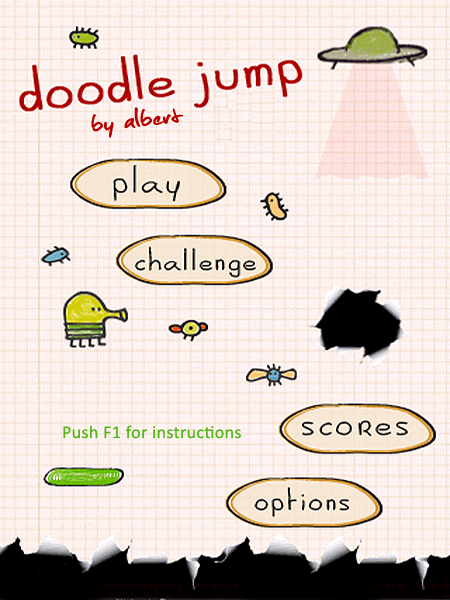
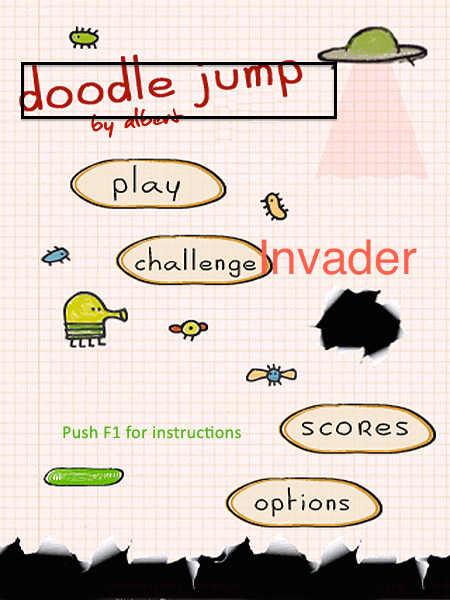
Added new image
TODO make it actually work.

Changed region(s): [[0.0311, 0.09, 0.7467, 0.24], [0.56, 0.39, 0.9333, 0.48]]

diff --git a/src/GameShell.java b/src/GameShell.java
@@ -40,7 +40,7 @@ public class GameShell extends Applet implements KeyListener, MouseListener, Mou
     private Image starB, starW, whiteP, dblueP, greenS0, greenS1, expl;
     private Image brownP1, brownP2, brownP3, brownP4, brownP5, brownP6;
     private Image batM1, batM2, batM3;
-    private Image intro0, intro1, intro3, scores0, scores1, gameover0, gameover1;
+    private Image intro0, intro2, intro1, intro3, intro4, scores0, scores1, gameover0, gameover1;
     private Image gridF, borderF, dblueF, greenF, whiteF, greenS0F, greenS1F;
     private Image brownF1, brownF2, brownF3, brownF4, brownF5, brownF6;
     private Character doodle;
@@ -92,9 +92,11 @@ public class GameShell extends Applet implements KeyListener, MouseListener, Mou
         topbar = Toolkit.getDefaultToolkit().getImage("images/topbar.png");
         bulletImg = Toolkit.getDefaultToolkit().getImage("images/laser.png");
 
-        intro0 = Toolkit.getDefaultToolkit().getImage("images/menu/intro0.png");
-        intro1 = Toolkit.getDefaultToolkit().getImage("images/menu/intro1.png");
-        intro3 = Toolkit.getDefaultToolkit().getImage("images/menu/intro3.png");
+        intro0 = Toolkit.getDefaultToolkit().getImage("images/menu/invader_main.png");
+        intro1 = Toolkit.getDefaultToolkit().getImage("images/menu/invader_play.png");
+        intro2 = Toolkit.getDefaultToolkit().getImage("images/menu/invader_challenge.png");
+        intro3 = Toolkit.getDefaultToolkit().getImage("images/menu/invader_scores.png");
+        intro4 = Toolkit.getDefaultToolkit().getImage("images/menu/invader_menu.png");
         scores0 = Toolkit.getDefaultToolkit().getImage("images/menu/scores0.png");
         scores1 = Toolkit.getDefaultToolkit().getImage("images/menu/scores1.png");
         gameover0 = Toolkit.getDefaultToolkit().getImage("images/menu/gameover0.png");
